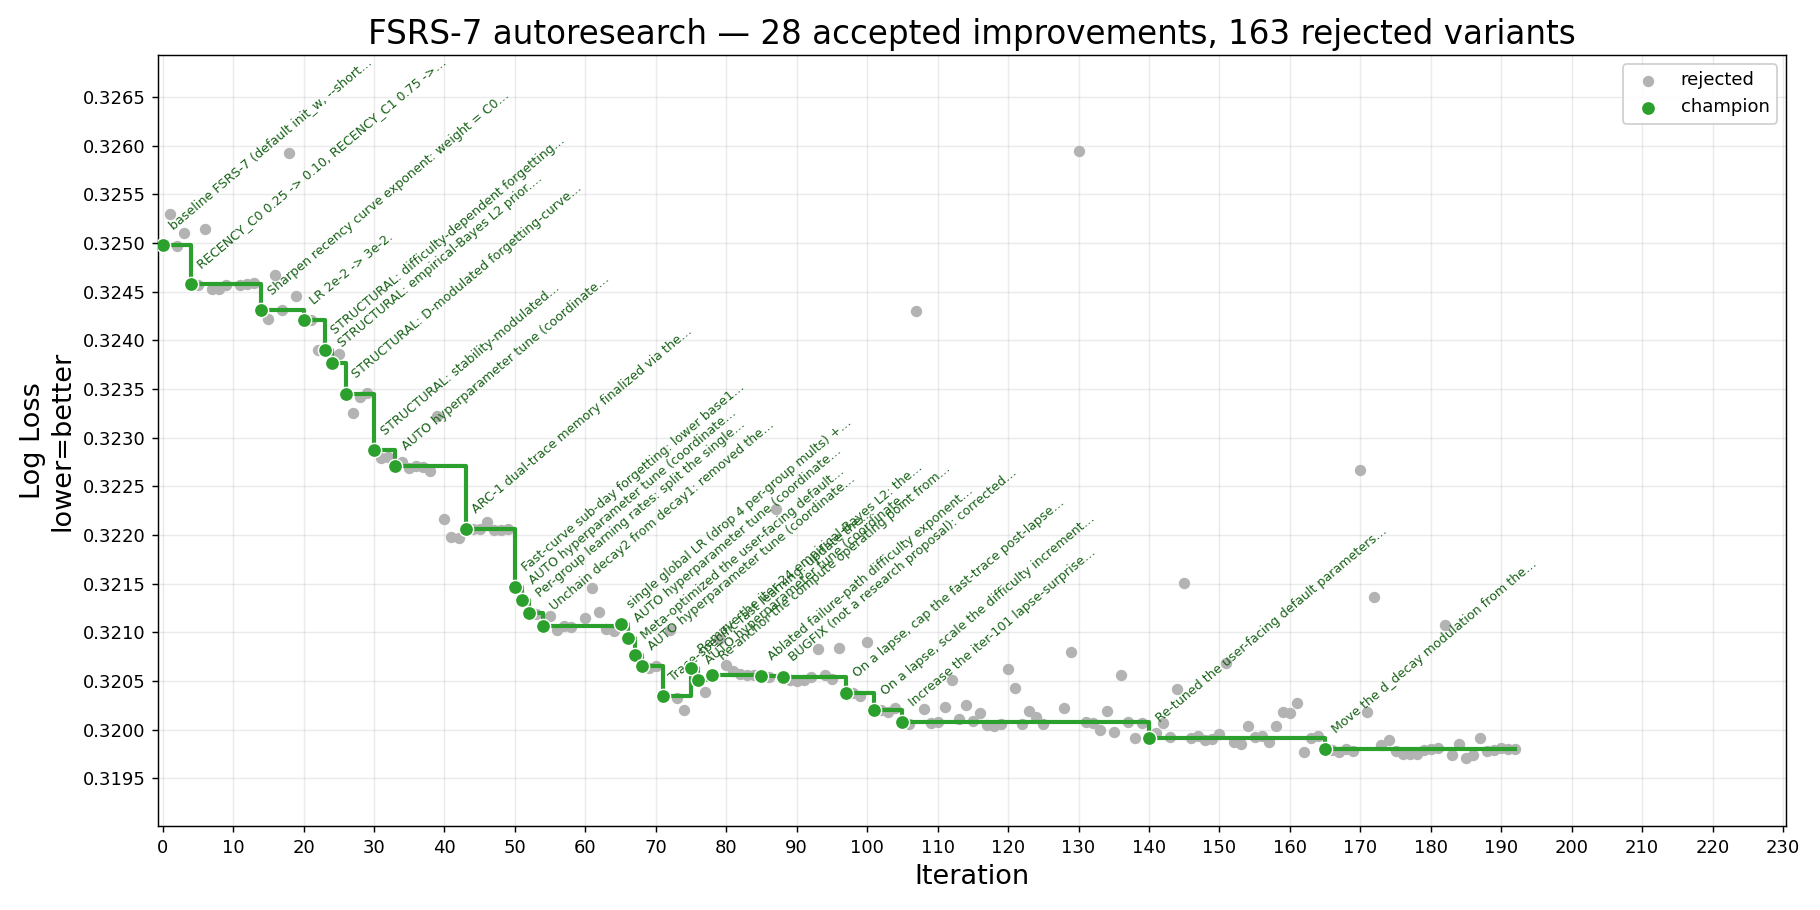
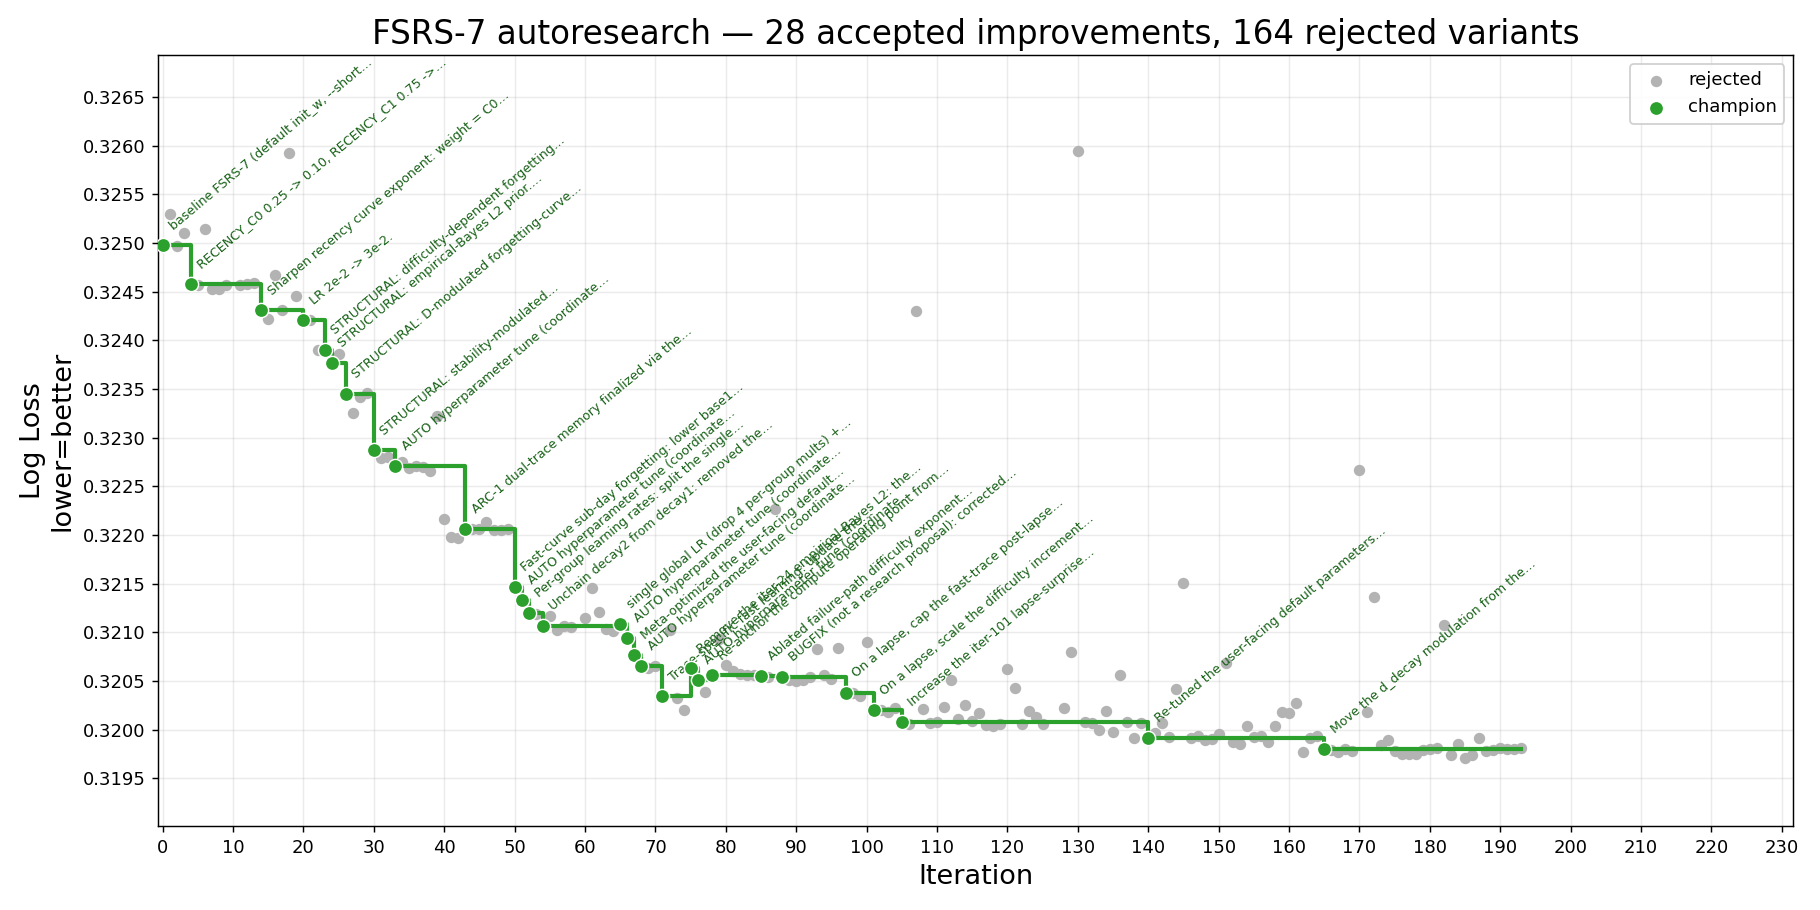
iter-193 rejected (parity -3.5e-6): Lookahead fully fungible with inner LR (x2.25 cancels alpha=0.5 damping); variance-reduction family mapped; overnight silent-death incident documented

diff --git a/result/history.md b/result/history.md
@@ -1,6 +1,6 @@
 # FSRS-7 autoresearch — iteration history
 
-_192 record(s). Generated from `history.jsonl` — do not edit by hand._
+_193 record(s). Generated from `history.jsonl` — do not edit by hand._
 
 | # | Time (UTC) | Thresh. | LL before | LL after | Δ LL | Cx before | Cx after | Δ Cx % | Status | Summary |
 |--:|---|---:|---:|---:|---:|---:|---:|---:|---|---|
@@ -196,3 +196,4 @@ _192 record(s). Generated from `history.jsonl` — do not edit by hand._
 | 190 | 2026-06-10T18:53:25 | 0.0001 | 0.31980 | 0.31981 | -0.00001 | 17,631 | 17,700 | +0.39% | rejected | Additive encoding floor on long-trace success stability: new_s_long >= s_long + delta, fixed delta swept 0.05/0.15/0.4. |
 | 191 | 2026-06-10T19:18:31 | 0.0001 | 0.31980 | 0.31980 | +0.00000 | 17,631 | 17,631 | +0.00% | rejected | AUTO hyperparameter tune (coordinate descent over training hyperparameters (LR/betas/L2/recency C0+EXP)): best candidate none. |
 | 192 | 2026-06-10T19:31:36 | 0.0001 | 0.31980 | 0.31980 | +0.00000 | 17,631 | 17,652 | +0.12% | rejected | Hard-rating high-R stability discount: hard_penalty *= (1 - c*max(0, R-0.9)), fixed c swept 2/5. |
+| 193 | 2026-06-11T07:18:49 | 0.0001 | 0.31980 | 0.31981 | -0.00000 | 17,631 | 17,738 | +0.61% | rejected | Lookahead optimizer (k=5, alpha=0.5, per-row step clock, final-step forced sync; slow weights returned); bundled hp_tune. |
